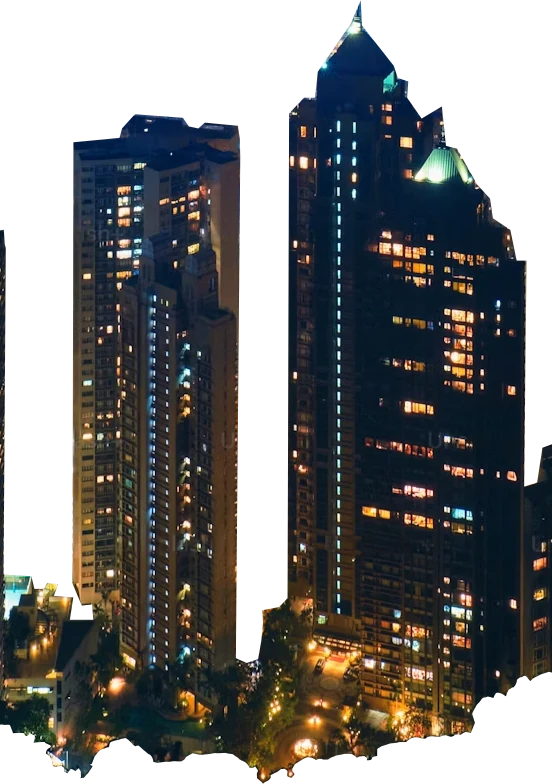
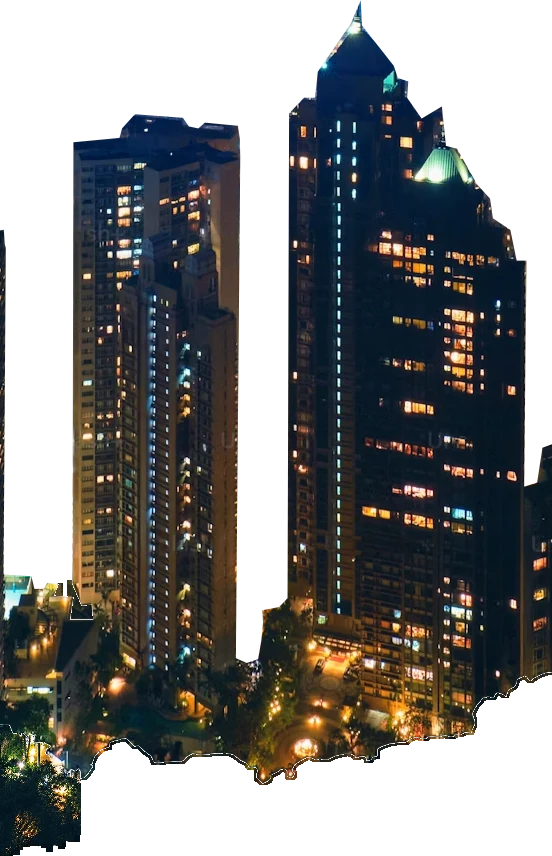
Integrate repaired skyline layers and optimize parallax overlaps

diff --git a/styles/home.min.css b/styles/home.min.css
@@ -1,1 +1,1 @@
-.hero{position:relative;min-height:480px;height:100vh;height:100svh;overflow:hidden;isolation:isolate;background:#05203a}.hero-base,.parallax-layer{position:absolute;top:0;left:0;width:100%;height:130%;pointer-events:none;-webkit-user-select:none;user-select:none}.hero-base img,.parallax-layer img{width:100%;height:100%;object-fit:cover;object-position:50% 50%}.hero-base{z-index:0}.images{position:absolute;inset:0;opacity:0}.hero.parallax-ready .images{opacity:1;transition:opacity .24s ease}.img1{z-index:8}.img2{z-index:7}.img3{z-index:6}.img4{z-index:5}.img5{z-index:4}.img6{z-index:3}.img7{z-index:2}.img8{z-index:1}.hero:before,.hero:after{content:"";position:absolute;z-index:9;pointer-events:none}.hero:before{inset:auto 0 0;height:20%;background:linear-gradient(0deg,var(--main-bg-color),transparent)}.hero:after{inset:0 0 auto;height:160px;background:linear-gradient(180deg,#080f1b70,transparent)}.hero-mark{position:absolute;top:45%;left:50%;z-index:5;width:400px;transform:translate(-50%,-50%);text-align:center;pointer-events:none;-webkit-user-select:none;user-select:none}.hero-mark img{width:100%;height:auto;filter:drop-shadow(0 2px 24px #00132955)}.hero-scroll{position:absolute;bottom:24px;left:50%;z-index:10;display:flex;flex-direction:column;align-items:center;gap:4px;min-height:44px;padding:8px 16px;transform:translate(-50%);color:var(--text-color);font-size:.75rem;white-space:nowrap}.home-main{position:relative;z-index:1;flex:1;background:var(--main-bg-color)}.community-gallery{min-width:0}.carousel-inner{aspect-ratio:4 / 3;border-radius:var(--radius);background:#0d131b}.carousel-item{aspect-ratio:4 / 3}.carousel-item img{width:100%;height:100%;object-fit:cover}.carousel-item img.poster-image{object-fit:contain}.gallery-toolbar{display:flex;align-items:center;justify-content:space-between;gap:16px;margin-top:20px}.gallery-toolbar .eyebrow{margin-bottom:5px;font-size:.6rem}.gallery-toolbar p{font-size:.8rem}.gallery-controls{display:flex;align-items:center;gap:8px}.gallery-controls .small-label{margin-right:10px;font-size:.65rem}.home-card-section .split-layout{grid-template-columns:1fr .9fr}.home-card-art{display:flex;flex-direction:column;align-items:center;padding:40px;border:1px solid var(--border-color);border-radius:var(--radius);background:#151e2a}.home-card-art img{width:100%;height:auto;border-radius:var(--radius);box-shadow:0 24px 40px #00000030}.home-card-art>.small-label{align-self:flex-end;margin-top:32px;font-size:.6rem}.card-benefits{display:flex;flex-wrap:wrap;gap:28px;margin-top:28px}.card-benefits>div{display:flex;flex-direction:column;gap:4px}.card-benefits strong{font-size:1.5rem;font-weight:600;letter-spacing:-.04em}.card-benefits span{color:var(--secondary-text-color);font-size:.65rem}.section-copy .availability-note{margin-top:16px;color:var(--muted-text-color);font-size:.7rem}@media(max-width:991.98px){.home-card-art{padding:28px}.card-benefits{gap:20px}}@media(max-width:767.98px){.hero-mark{width:min(76vw,300px)}.home-card-section .split-layout{grid-template-columns:1fr}.home-card-art{padding:24px}.home-card-art>.small-label{margin-top:24px}}.events-header{padding-bottom:40px}.events-header .section-copy,.next-event-note{max-width:560px}.next-event-note{width:fit-content;margin-top:32px}.next-event-link{display:grid;grid-template-columns:minmax(0,1fr) auto;align-items:center;gap:8px 24px}.next-event-link h2{font-size:1rem;letter-spacing:-.025em;transition:color .15s ease}.next-event-link>p{grid-column:1 / -1;color:var(--secondary-text-color);font-size:.875rem;line-height:1.85}.next-event-link .arrow-icon{color:var(--muted-text-color);transition:color .15s ease}.next-event-link:is(:hover,:focus-visible) h2,.next-event-link:is(:hover,:focus-visible) .arrow-icon{color:var(--accent-color)}.archive-section{padding-bottom:var(--section-space)}.archive-toolbar{display:flex;justify-content:space-between;align-items:center;gap:24px;margin-block:0 32px;border-bottom:1px solid var(--border-color)}.event-filters{display:flex;gap:28px}.events-grid{display:grid;grid-template-columns:repeat(3,minmax(0,1fr));gap:40px 24px}.event-card{position:relative;min-width:0;padding-bottom:20px;border-bottom:1px solid var(--border-color);transition:border-color .16s ease}.event-card-media{display:block;aspect-ratio:4 / 3;overflow:hidden;border-radius:var(--radius);background:#0c121b}.event-card-media img{width:100%;height:100%;object-fit:cover}.event-card-media.poster-media img{object-fit:contain}.event-card-body{padding-top:20px}.event-card-trigger{display:flex;align-items:center;justify-content:space-between;gap:16px;width:100%;padding:0;border:0;background:transparent;color:var(--text-color);text-align:left;font-size:1.25rem;font-weight:600;letter-spacing:-.025em;line-height:1.4}.event-card-trigger:after{content:"";position:absolute;inset:0;z-index:1;border-radius:var(--radius)}.event-card-trigger .arrow-icon{color:var(--muted-text-color)}.event-card:hover{border-color:var(--accent-color)}.event-card:hover .event-card-trigger,.event-card:hover .arrow-icon{color:var(--accent-color)}@media(max-width:991.98px){.events-grid{grid-template-columns:repeat(2,minmax(0,1fr))}.home-main .events-grid .event-card:last-child{display:none}.event-filters{gap:22px}}@media(max-width:767.98px){.events-header{padding-bottom:32px}.archive-toolbar{flex-direction:column;align-items:flex-start;gap:8px;padding-bottom:12px;margin-bottom:24px}.archive-toolbar .small-label{order:-1}.event-filters{width:100%;gap:22px;overflow-x:auto}.event-filters .filter-button{font-size:.75rem}.events-grid{grid-template-columns:1fr;gap:32px}.event-card-trigger{font-size:1.3rem}.home-main .events-grid .event-card:last-child{display:block}}.parallax-layer{container-type:size}.parallax-layer img{position:absolute;max-width:none;object-fit:fill;--scene-width:max(100cqw,149.8913830557567cqh);--scene-height:max(100cqh,66.71497584541063cqw);width:calc(var(--scene-width)*var(--trim-width));height:calc(var(--scene-height)*var(--trim-height));left:calc((100cqw - var(--scene-width))/2 + var(--scene-width)*var(--trim-left));top:calc((100cqh - var(--scene-height))/2 + var(--scene-height)*var(--trim-top))}.img1{--trim-width:1;--trim-height:.6046343229543809;--trim-left:0;--trim-top:.3953656770456191}.img2{--trim-width:.45410628019323673;--trim-height:.5677045619116582;--trim-left:.24057971014492754;--trim-top:.38015930485155686}.img3{--trim-width:.6618357487922706;--trim-height:.611875452570601;--trim-left:.13429951690821257;--trim-top:.2541636495293266}.img4{--trim-width:.8309178743961353;--trim-height:.556842867487328;--trim-left:0;--trim-top:.30340333091962346}.img5{--trim-width:.9381642512077295;--trim-height:.30919623461259954;--trim-left:.06183574879227053;--trim-top:.2983345401882694}.img6{--trim-width:.9888888888888889;--trim-height:.36278059377262856;--trim-left:0;--trim-top:.16292541636495295}.img7{--trim-width:1;--trim-height:.27081824764663287;--trim-left:0;--trim-top:.1332367849384504}.img8{--trim-width:1;--trim-height:.23606082548877624;--trim-left:0;--trim-top:0}@media(max-width:767px)and (max-aspect-ratio:1/2){.parallax-layer img{--scene-width:max(100cqw,39.97103548153512cqh);--scene-height:max(100cqh,250.18115942028984cqw)}.img1{--trim-width:1;--trim-height:.1339608979000724;--trim-left:0;--trim-top:.8660391020999276}.img2{--trim-width:1;--trim-height:.5677045619116582;--trim-left:0;--trim-top:.38015930485155686}.img3{--trim-width:1;--trim-height:.503982621288921;--trim-left:0;--trim-top:.32512671976828383}.img4{--trim-width:.947463768115942;--trim-height:.4330195510499638;--trim-left:.05253623188405797;--trim-top:.4272266473569877}.img5{--trim-width:.0018115942028985507;--trim-height:.000724112961622013;--trim-left:0;--trim-top:0}.img6{--trim-width:.9981884057971014;--trim-height:.32150615496017376;--trim-left:.0018115942028985507;--trim-top:.20419985517740769}.img7{--trim-width:1;--trim-height:.21361332367849384;--trim-left:0;--trim-top:.18175235336712528}.img8{--trim-width:1;--trim-height:.23606082548877624;--trim-left:0;--trim-top:0}}.parallax-layer.original-scene{--trim-width:1;--trim-height:1;--trim-left:0;--trim-top:0}.parallax-layer.original-scene img{--scene-width:max(100cqw,149.8913830557567cqh);--scene-height:max(100cqh,66.71497584541063cqw)}.hero.legacy-scene .parallax-layer img{position:static;max-width:100%;width:100%;height:100%;object-fit:cover}
+.hero{position:relative;min-height:480px;height:100vh;height:100svh;overflow:hidden;isolation:isolate;background:#05203a}.hero-base,.parallax-layer{position:absolute;top:0;left:0;width:100%;height:130%;pointer-events:none;-webkit-user-select:none;user-select:none}.hero-base img,.parallax-layer img{width:100%;height:100%;object-fit:cover;object-position:50% 50%}.hero-base{z-index:0}.images{position:absolute;inset:0;opacity:0}.hero.parallax-ready .images{opacity:1;transition:opacity .24s ease}.img1{z-index:8}.img2{z-index:7}.img3{z-index:6}.img4{z-index:5}.img5{z-index:4}.img6{z-index:3}.img7{z-index:2}.img8{z-index:1}.hero:before,.hero:after{content:"";position:absolute;z-index:9;pointer-events:none}.hero:before{inset:auto 0 0;height:20%;background:linear-gradient(0deg,var(--main-bg-color),transparent)}.hero:after{inset:0 0 auto;height:160px;background:linear-gradient(180deg,#080f1b70,transparent)}.hero-mark{position:absolute;top:45%;left:50%;z-index:5;width:400px;transform:translate(-50%,-50%);text-align:center;pointer-events:none;-webkit-user-select:none;user-select:none}.hero-mark img{width:100%;height:auto;filter:drop-shadow(0 2px 24px #00132955)}.hero-scroll{position:absolute;bottom:24px;left:50%;z-index:10;display:flex;flex-direction:column;align-items:center;gap:4px;min-height:44px;padding:8px 16px;transform:translate(-50%);color:var(--text-color);font-size:.75rem;white-space:nowrap}.home-main{position:relative;z-index:1;flex:1;background:var(--main-bg-color)}.community-gallery{min-width:0}.carousel-inner{aspect-ratio:4 / 3;border-radius:var(--radius);background:#0d131b}.carousel-item{aspect-ratio:4 / 3}.carousel-item img{width:100%;height:100%;object-fit:cover}.carousel-item img.poster-image{object-fit:contain}.gallery-toolbar{display:flex;align-items:center;justify-content:space-between;gap:16px;margin-top:20px}.gallery-toolbar .eyebrow{margin-bottom:5px;font-size:.6rem}.gallery-toolbar p{font-size:.8rem}.gallery-controls{display:flex;align-items:center;gap:8px}.gallery-controls .small-label{margin-right:10px;font-size:.65rem}.home-card-section .split-layout{grid-template-columns:1fr .9fr}.home-card-art{display:flex;flex-direction:column;align-items:center;padding:40px;border:1px solid var(--border-color);border-radius:var(--radius);background:#151e2a}.home-card-art img{width:100%;height:auto;border-radius:var(--radius);box-shadow:0 24px 40px #00000030}.home-card-art>.small-label{align-self:flex-end;margin-top:32px;font-size:.6rem}.card-benefits{display:flex;flex-wrap:wrap;gap:28px;margin-top:28px}.card-benefits>div{display:flex;flex-direction:column;gap:4px}.card-benefits strong{font-size:1.5rem;font-weight:600;letter-spacing:-.04em}.card-benefits span{color:var(--secondary-text-color);font-size:.65rem}.section-copy .availability-note{margin-top:16px;color:var(--muted-text-color);font-size:.7rem}@media(max-width:991.98px){.home-card-art{padding:28px}.card-benefits{gap:20px}}@media(max-width:767.98px){.hero-mark{width:min(76vw,300px)}.home-card-section .split-layout{grid-template-columns:1fr}.home-card-art{padding:24px}.home-card-art>.small-label{margin-top:24px}}.events-header{padding-bottom:40px}.events-header .section-copy,.next-event-note{max-width:560px}.next-event-note{width:fit-content;margin-top:32px}.next-event-link{display:grid;grid-template-columns:minmax(0,1fr) auto;align-items:center;gap:8px 24px}.next-event-link h2{font-size:1rem;letter-spacing:-.025em;transition:color .15s ease}.next-event-link>p{grid-column:1 / -1;color:var(--secondary-text-color);font-size:.875rem;line-height:1.85}.next-event-link .arrow-icon{color:var(--muted-text-color);transition:color .15s ease}.next-event-link:is(:hover,:focus-visible) h2,.next-event-link:is(:hover,:focus-visible) .arrow-icon{color:var(--accent-color)}.archive-section{padding-bottom:var(--section-space)}.archive-toolbar{display:flex;justify-content:space-between;align-items:center;gap:24px;margin-block:0 32px;border-bottom:1px solid var(--border-color)}.event-filters{display:flex;gap:28px}.events-grid{display:grid;grid-template-columns:repeat(3,minmax(0,1fr));gap:40px 24px}.event-card{position:relative;min-width:0;padding-bottom:20px;border-bottom:1px solid var(--border-color);transition:border-color .16s ease}.event-card-media{display:block;aspect-ratio:4 / 3;overflow:hidden;border-radius:var(--radius);background:#0c121b}.event-card-media img{width:100%;height:100%;object-fit:cover}.event-card-media.poster-media img{object-fit:contain}.event-card-body{padding-top:20px}.event-card-trigger{display:flex;align-items:center;justify-content:space-between;gap:16px;width:100%;padding:0;border:0;background:transparent;color:var(--text-color);text-align:left;font-size:1.25rem;font-weight:600;letter-spacing:-.025em;line-height:1.4}.event-card-trigger:after{content:"";position:absolute;inset:0;z-index:1;border-radius:var(--radius)}.event-card-trigger .arrow-icon{color:var(--muted-text-color)}.event-card:hover{border-color:var(--accent-color)}.event-card:hover .event-card-trigger,.event-card:hover .arrow-icon{color:var(--accent-color)}@media(max-width:991.98px){.events-grid{grid-template-columns:repeat(2,minmax(0,1fr))}.home-main .events-grid .event-card:last-child{display:none}.event-filters{gap:22px}}@media(max-width:767.98px){.events-header{padding-bottom:32px}.archive-toolbar{flex-direction:column;align-items:flex-start;gap:8px;padding-bottom:12px;margin-bottom:24px}.archive-toolbar .small-label{order:-1}.event-filters{width:100%;gap:22px;overflow-x:auto}.event-filters .filter-button{font-size:.75rem}.events-grid{grid-template-columns:1fr;gap:32px}.event-card-trigger{font-size:1.3rem}.home-main .events-grid .event-card:last-child{display:block}}.parallax-layer{container-type:size}.parallax-layer img{position:absolute;max-width:none;object-fit:fill;--scene-width:max(100cqw,149.8913830557567cqh);--scene-height:max(100cqh,66.71497584541063cqw);width:calc(var(--scene-width)*var(--trim-width));height:calc(var(--scene-height)*var(--trim-height));left:calc((100cqw - var(--scene-width))/2 + var(--scene-width)*var(--trim-left));top:calc((100cqh - var(--scene-height))/2 + var(--scene-height)*var(--trim-top))}.img1{--trim-width:1;--trim-height:.6046343229543809;--trim-left:0;--trim-top:.3953656770456191}.img2{--trim-width:.45507246376811594;--trim-height:.6198406951484432;--trim-left:.2396135265700483;--trim-top:.38015930485155686}.img3{--trim-width:.6666666666666666;--trim-height:.7414916727009413;--trim-left:.13381642512077294;--trim-top:.2541636495293266}.img4{--trim-width:.8314009661835748;--trim-height:.558291093410572;--trim-left:0;--trim-top:.30340333091962346}.img5{--trim-width:.9381642512077295;--trim-height:.4055032585083273;--trim-left:.06183574879227053;--trim-top:.2983345401882694}.img6{--trim-width:.9888888888888889;--trim-height:.36278059377262856;--trim-left:0;--trim-top:.16292541636495295}.img7{--trim-width:1;--trim-height:.27081824764663287;--trim-left:0;--trim-top:.1332367849384504}.img8{--trim-width:1;--trim-height:.23606082548877624;--trim-left:0;--trim-top:0}@media(max-width:767px)and (max-aspect-ratio:1/2){.parallax-layer img{--scene-width:max(100cqw,39.97103548153512cqh);--scene-height:max(100cqh,250.18115942028984cqw)}.img1{--trim-width:1;--trim-height:.1339608979000724;--trim-left:0;--trim-top:.8660391020999276}.img2{--trim-width:1;--trim-height:.6198406951484432;--trim-left:0;--trim-top:.38015930485155686}.img3{--trim-width:1;--trim-height:.5054308472121651;--trim-left:0;--trim-top:.32512671976828383}.img4{--trim-width:.9510869565217391;--trim-height:.4344677769732078;--trim-left:.04891304347826087;--trim-top:.4272266473569877}.img5{--trim-width:.0018115942028985507;--trim-height:.000724112961622013;--trim-left:0;--trim-top:0}.img6{--trim-width:.9981884057971014;--trim-height:.32150615496017376;--trim-left:.0018115942028985507;--trim-top:.20419985517740769}.img7{--trim-width:1;--trim-height:.21361332367849384;--trim-left:0;--trim-top:.18175235336712528}.img8{--trim-width:1;--trim-height:.23606082548877624;--trim-left:0;--trim-top:0}}.parallax-layer.original-scene{--trim-width:1;--trim-height:1;--trim-left:0;--trim-top:0}.parallax-layer.original-scene img{--scene-width:max(100cqw,149.8913830557567cqh);--scene-height:max(100cqh,66.71497584541063cqw)}.hero.legacy-scene .parallax-layer img{position:static;max-width:100%;width:100%;height:100%;object-fit:cover}

diff --git a/index.html b/index.html
@@ -12,7 +12,7 @@
     <link rel="preload" href="./assets/fonts/manrope-latin.woff2" as="font" type="font/woff2" crossorigin>
     <style>html,body{background:#111720;color-scheme:dark}</style>
     <link rel="stylesheet" href="./styles/site.min.css?v=bba5784b5f01">
-    <link rel="stylesheet" href="./styles/home.min.css?v=b29a1c5753ea">
+    <link rel="stylesheet" href="./styles/home.min.css?v=d596c05dbb8b">
 
 </head>
 <body id="top" class="home-page">
@@ -52,16 +52,16 @@
 <!-- navigation:end -->
 
     <header class="hero" aria-labelledby="hero-title">
-        <picture class="hero-base" aria-hidden="true"><source media="(max-width: 767px) and (max-aspect-ratio: 1/2)" srcset="./assets/optimized/home/bg-portrait-384.webp 384w, ./assets/optimized/home/bg-portrait-552.webp 552w" sizes="max(100vw, 52svh)" type="image/webp"><source srcset="./assets/optimized/home/bg-1280.webp 1280w, ./assets/optimized/home/bg-1600.webp 1600w, ./assets/optimized/home/bg-2070.webp 2070w" sizes="max(100vw, 195svh)" type="image/webp"><img src="./assets/home/bg.png" alt="" width="2070" height="1381" fetchpriority="high" decoding="async" draggable="false"></picture>
+        <picture class="hero-base" aria-hidden="true"><source media="(max-width: 767px) and (max-aspect-ratio: 1/2)" srcset="./assets/optimized/home/bg-portrait-384.webp?v=429fee2bdaa2 384w, ./assets/optimized/home/bg-portrait-552.webp?v=429fee2bdaa2 552w" sizes="max(100vw, 52svh)" type="image/webp"><source srcset="./assets/optimized/home/bg-1280.webp?v=429fee2bdaa2 1280w, ./assets/optimized/home/bg-1600.webp?v=429fee2bdaa2 1600w, ./assets/optimized/home/bg-2070.webp?v=429fee2bdaa2 2070w" sizes="max(100vw, 195svh)" type="image/webp"><img src="./assets/home/bg.png" alt="" width="2070" height="1381" fetchpriority="high" decoding="async" draggable="false"></picture>
         <div class="images" aria-hidden="true">
-            <picture class="parallax-layer img8" data-depth="0.07"><source media="(max-width: 767px) and (max-aspect-ratio: 1/2)" data-srcset="./assets/optimized/home/layer8-trim-portrait-384.webp 384w, ./assets/optimized/home/layer8-trim-portrait-552.webp 552w" sizes="max(100vw, 52svh)" type="image/webp"><source data-srcset="./assets/optimized/home/layer8-trim-1280.webp 1280w, ./assets/optimized/home/layer8-trim-1600.webp 1600w, ./assets/optimized/home/layer8-trim-2070.webp 2070w" sizes="max(100vw, 195svh)" type="image/webp"><img data-src="./assets/home/layer8.png" alt="" width="2070" height="1381" decoding="async" fetchpriority="low" draggable="false"></picture>
-            <picture class="parallax-layer img7" data-depth="0.09"><source media="(max-width: 767px) and (max-aspect-ratio: 1/2)" data-srcset="./assets/optimized/home/layer7-trim-portrait-384.webp 384w, ./assets/optimized/home/layer7-trim-portrait-552.webp 552w" sizes="max(100vw, 52svh)" type="image/webp"><source data-srcset="./assets/optimized/home/layer7-trim-1280.webp 1280w, ./assets/optimized/home/layer7-trim-1600.webp 1600w, ./assets/optimized/home/layer7-trim-2070.webp 2070w" sizes="max(100vw, 195svh)" type="image/webp"><img data-src="./assets/home/layer7.png" alt="" width="2070" height="1381" decoding="async" fetchpriority="low" draggable="false"></picture>
-            <picture class="parallax-layer img6" data-depth="0.11"><source media="(max-width: 767px) and (max-aspect-ratio: 1/2)" data-srcset="./assets/optimized/home/layer6-trim-portrait-384.webp 383w, ./assets/optimized/home/layer6-trim-portrait-552.webp 551w" sizes="max(99.81884057971014vw, 51.905797101449274svh)" type="image/webp"><source data-srcset="./assets/optimized/home/layer6-trim-1280.webp 1266w, ./assets/optimized/home/layer6-trim-1600.webp 1582w, ./assets/optimized/home/layer6-trim-2070.webp 2047w" sizes="max(98.88888888888889vw, 192.83333333333334svh)" type="image/webp"><img data-src="./assets/home/layer6.png" alt="" width="2070" height="1381" decoding="async" fetchpriority="low" draggable="false"></picture>
-            <picture class="parallax-layer img5" data-depth="0.14"><source media="(max-width: 767px) and (max-aspect-ratio: 1/2)" data-srcset="./assets/optimized/home/layer5-trim-portrait-384.webp 1w" sizes="max(0.18115942028985507vw, 0.09420289855072464svh)" type="image/webp"><source data-srcset="./assets/optimized/home/layer5-trim-1280.webp 1201w, ./assets/optimized/home/layer5-trim-1600.webp 1501w, ./assets/optimized/home/layer5-trim-2070.webp 1942w" sizes="max(93.81642512077295vw, 182.94202898550725svh)" type="image/webp"><img data-src="./assets/home/layer5.png" alt="" width="2070" height="1381" decoding="async" fetchpriority="low" draggable="false"></picture>
-            <picture class="parallax-layer img4" data-depth="0.17"><source media="(max-width: 767px) and (max-aspect-ratio: 1/2)" data-srcset="./assets/optimized/home/layer4-trim-portrait-384.webp 364w, ./assets/optimized/home/layer4-trim-portrait-552.webp 523w" sizes="max(94.7463768115942vw, 49.268115942028984svh)" type="image/webp"><source data-srcset="./assets/optimized/home/layer4-trim-1280.webp 1064w, ./assets/optimized/home/layer4-trim-1600.webp 1329w, ./assets/optimized/home/layer4-trim-2070.webp 1720w" sizes="max(83.09178743961353vw, 162.02898550724638svh)" type="image/webp"><img data-src="./assets/home/layer4.png" alt="" width="2070" height="1381" decoding="async" fetchpriority="low" draggable="false"></picture>
-            <picture class="parallax-layer img3" data-depth="0.21"><source media="(max-width: 767px) and (max-aspect-ratio: 1/2)" data-srcset="./assets/optimized/home/layer3-trim-portrait-384.webp 384w, ./assets/optimized/home/layer3-trim-portrait-552.webp 552w" sizes="max(100vw, 52svh)" type="image/webp"><source data-srcset="./assets/optimized/home/layer3-trim-1280.webp 847w, ./assets/optimized/home/layer3-trim-1600.webp 1059w, ./assets/optimized/home/layer3-trim-2070.webp 1370w" sizes="max(66.18357487922705vw, 129.05797101449275svh)" type="image/webp"><img data-src="./assets/home/layer3.png" alt="" width="2070" height="1381" decoding="async" fetchpriority="low" draggable="false"></picture>
-            <picture class="parallax-layer img2" data-depth="0.25"><source media="(max-width: 767px) and (max-aspect-ratio: 1/2)" data-srcset="./assets/optimized/home/layer2-trim-portrait-384.webp 384w, ./assets/optimized/home/layer2-trim-portrait-552.webp 552w" sizes="max(100vw, 52svh)" type="image/webp"><source data-srcset="./assets/optimized/home/layer2-trim-1280.webp 581w, ./assets/optimized/home/layer2-trim-1600.webp 727w, ./assets/optimized/home/layer2-trim-2070.webp 940w" sizes="max(45.410628019323674vw, 88.55072463768116svh)" type="image/webp"><img data-src="./assets/home/layer2.png" alt="" width="2070" height="1381" decoding="async" fetchpriority="low" draggable="false"></picture>
-            <picture class="parallax-layer img1" data-depth="0.28"><source media="(max-width: 767px) and (max-aspect-ratio: 1/2)" data-srcset="./assets/optimized/home/layer1-trim-portrait-384.webp 384w, ./assets/optimized/home/layer1-trim-portrait-552.webp 552w" sizes="max(100vw, 52svh)" type="image/webp"><source data-srcset="./assets/optimized/home/layer1-trim-1280.webp 1280w, ./assets/optimized/home/layer1-trim-1600.webp 1600w, ./assets/optimized/home/layer1-trim-2070.webp 2070w" sizes="max(100vw, 195svh)" type="image/webp"><img data-src="./assets/home/layer1.png" alt="" width="2070" height="1381" decoding="async" fetchpriority="low" draggable="false"></picture>
+            <picture class="parallax-layer img8" data-depth="0.07"><source media="(max-width: 767px) and (max-aspect-ratio: 1/2)" data-srcset="./assets/optimized/home/layer8-trim-portrait-384.webp?v=7e98d4e20671 384w, ./assets/optimized/home/layer8-trim-portrait-552.webp?v=7e98d4e20671 552w" sizes="max(100vw, 52svh)" type="image/webp"><source data-srcset="./assets/optimized/home/layer8-trim-1280.webp?v=7e98d4e20671 1280w, ./assets/optimized/home/layer8-trim-1600.webp?v=7e98d4e20671 1600w, ./assets/optimized/home/layer8-trim-2070.webp?v=7e98d4e20671 2070w" sizes="max(100vw, 195svh)" type="image/webp"><img data-src="./assets/home/layer8.png" alt="" width="2070" height="1381" decoding="async" fetchpriority="low" draggable="false"></picture>
+            <picture class="parallax-layer img7" data-depth="0.09"><source media="(max-width: 767px) and (max-aspect-ratio: 1/2)" data-srcset="./assets/optimized/home/layer7-trim-portrait-384.webp?v=e7a17358958b 384w, ./assets/optimized/home/layer7-trim-portrait-552.webp?v=e7a17358958b 552w" sizes="max(100vw, 52svh)" type="image/webp"><source data-srcset="./assets/optimized/home/layer7-trim-1280.webp?v=e7a17358958b 1280w, ./assets/optimized/home/layer7-trim-1600.webp?v=e7a17358958b 1600w, ./assets/optimized/home/layer7-trim-2070.webp?v=e7a17358958b 2070w" sizes="max(100vw, 195svh)" type="image/webp"><img data-src="./assets/home/layer7.png" alt="" width="2070" height="1381" decoding="async" fetchpriority="low" draggable="false"></picture>
+            <picture class="parallax-layer img6" data-depth="0.11"><source media="(max-width: 767px) and (max-aspect-ratio: 1/2)" data-srcset="./assets/optimized/home/layer6-trim-portrait-384.webp?v=f5b857706de8 383w, ./assets/optimized/home/layer6-trim-portrait-552.webp?v=f5b857706de8 551w" sizes="max(99.81884057971014vw, 51.905797101449274svh)" type="image/webp"><source data-srcset="./assets/optimized/home/layer6-trim-1280.webp?v=f5b857706de8 1266w, ./assets/optimized/home/layer6-trim-1600.webp?v=f5b857706de8 1582w, ./assets/optimized/home/layer6-trim-2070.webp?v=f5b857706de8 2047w" sizes="max(98.88888888888889vw, 192.83333333333334svh)" type="image/webp"><img data-src="./assets/home/layer6.png" alt="" width="2070" height="1381" decoding="async" fetchpriority="low" draggable="false"></picture>
+            <picture class="parallax-layer img5" data-depth="0.14"><source media="(max-width: 767px) and (max-aspect-ratio: 1/2)" data-srcset="./assets/optimized/home/layer5-trim-portrait-384.webp?v=6ca76e01632c 1w" sizes="max(0.18115942028985507vw, 0.09420289855072464svh)" type="image/webp"><source data-srcset="./assets/optimized/home/layer5-trim-1280.webp?v=6ca76e01632c 1201w, ./assets/optimized/home/layer5-trim-1600.webp?v=6ca76e01632c 1501w, ./assets/optimized/home/layer5-trim-2070.webp?v=6ca76e01632c 1942w" sizes="max(93.81642512077295vw, 182.94202898550725svh)" type="image/webp"><img data-src="./assets/home/repaired/layer5.png" alt="" width="2070" height="1381" decoding="async" fetchpriority="low" draggable="false"></picture>
+            <picture class="parallax-layer img4" data-depth="0.17"><source media="(max-width: 767px) and (max-aspect-ratio: 1/2)" data-srcset="./assets/optimized/home/layer4-trim-portrait-384.webp?v=fc0ced98e16c 365w, ./assets/optimized/home/layer4-trim-portrait-552.webp?v=fc0ced98e16c 525w" sizes="max(95.1086956521739vw, 49.45652173913044svh)" type="image/webp"><source data-srcset="./assets/optimized/home/layer4-trim-1280.webp?v=fc0ced98e16c 1064w, ./assets/optimized/home/layer4-trim-1600.webp?v=fc0ced98e16c 1330w, ./assets/optimized/home/layer4-trim-2070.webp?v=fc0ced98e16c 1721w" sizes="max(83.14009661835749vw, 162.1231884057971svh)" type="image/webp"><img data-src="./assets/home/repaired/layer4.png" alt="" width="2070" height="1381" decoding="async" fetchpriority="low" draggable="false"></picture>
+            <picture class="parallax-layer img3" data-depth="0.21"><source media="(max-width: 767px) and (max-aspect-ratio: 1/2)" data-srcset="./assets/optimized/home/layer3-trim-portrait-384.webp?v=e43fb49aab97 384w, ./assets/optimized/home/layer3-trim-portrait-552.webp?v=e43fb49aab97 552w" sizes="max(100vw, 52svh)" type="image/webp"><source data-srcset="./assets/optimized/home/layer3-trim-1280.webp?v=e43fb49aab97 853w, ./assets/optimized/home/layer3-trim-1600.webp?v=e43fb49aab97 1067w, ./assets/optimized/home/layer3-trim-2070.webp?v=e43fb49aab97 1380w" sizes="max(66.66666666666666vw, 130svh)" type="image/webp"><img data-src="./assets/home/repaired/layer3.png" alt="" width="2070" height="1381" decoding="async" fetchpriority="low" draggable="false"></picture>
+            <picture class="parallax-layer img2" data-depth="0.25"><source media="(max-width: 767px) and (max-aspect-ratio: 1/2)" data-srcset="./assets/optimized/home/layer2-trim-portrait-384.webp?v=2e231a641e82 384w, ./assets/optimized/home/layer2-trim-portrait-552.webp?v=2e231a641e82 552w" sizes="max(100vw, 52svh)" type="image/webp"><source data-srcset="./assets/optimized/home/layer2-trim-1280.webp?v=2e231a641e82 582w, ./assets/optimized/home/layer2-trim-1600.webp?v=2e231a641e82 728w, ./assets/optimized/home/layer2-trim-2070.webp?v=2e231a641e82 942w" sizes="max(45.507246376811594vw, 88.73913043478261svh)" type="image/webp"><img data-src="./assets/home/repaired/layer2.png" alt="" width="2070" height="1381" decoding="async" fetchpriority="low" draggable="false"></picture>
+            <picture class="parallax-layer img1" data-depth="0.28"><source media="(max-width: 767px) and (max-aspect-ratio: 1/2)" data-srcset="./assets/optimized/home/layer1-trim-portrait-384.webp?v=d58001d5638f 384w, ./assets/optimized/home/layer1-trim-portrait-552.webp?v=d58001d5638f 552w" sizes="max(100vw, 52svh)" type="image/webp"><source data-srcset="./assets/optimized/home/layer1-trim-1280.webp?v=d58001d5638f 1280w, ./assets/optimized/home/layer1-trim-1600.webp?v=d58001d5638f 1600w, ./assets/optimized/home/layer1-trim-2070.webp?v=d58001d5638f 2070w" sizes="max(100vw, 195svh)" type="image/webp"><img data-src="./assets/home/repaired/layer1.png" alt="" width="2070" height="1381" decoding="async" fetchpriority="low" draggable="false"></picture>
         </div>
         <h1 id="hero-title" class="hero-mark">
             <img src="./assets/optimized/logo/logoTextWhite-800.webp" srcset="./assets/optimized/logo/logoTextWhite-244.webp 244w, ./assets/optimized/logo/logoTextWhite-800.webp 800w" sizes="(max-width: 767px) min(76vw, 300px), 400px" width="3380" height="857" data-fallback="./assets/logo/logoTextWhite.png" alt="Hong Kong Student Network (HKSN)" decoding="async" data-fade draggable="false">

diff --git a/assets/home/repaired/README.md b/assets/home/repaired/README.md
@@ -1,0 +1,18 @@
+# Repaired skyline layers
+
+`layer1.png` through `layer5.png` are the supplied revision-2 repairs, kept at
+2070 × 1381 with their original alignment. Use them together: the revised right
+hillside in layer 1 depends on the additional backing in layers 3–5. Layer 2 also
+restores a small missing building detail.
+
+The untouched source images remain one folder up. Layers 6–8 and the base
+photograph still use those originals.
+
+Run `npm run build` after replacing a repaired PNG. This generates the full-size
+WebP fallbacks here, the trimmed desktop/portrait WebPs in `assets/optimized/home/`,
+their CSS positions, and versioned image URLs. Do not edit generated WebPs directly.
+
+During the build, `scripts/skyline-overlap.mjs` backs narrow cut edges with up to
+three source pixels of neighboring texture, only where a fully opaque foreground
+layer hides them at rest. This reduces resampling seams without expanding visible
+rooflines or changing the supplied PNGs.
